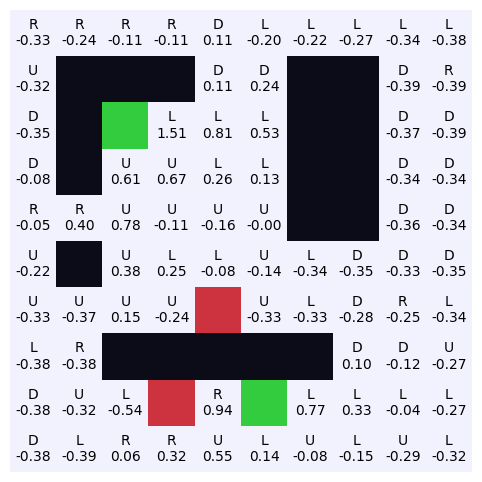
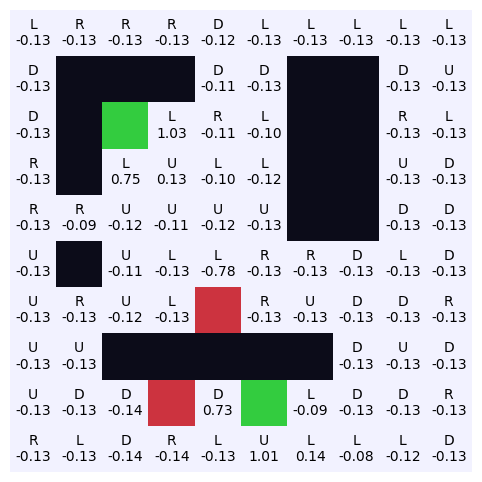
Validation

diff --git a/Assignment04/src/value_iter.py b/Assignment04/src/value_iter.py
@@ -5,7 +5,6 @@ import matplotlib.pyplot as plt
 import numpy as np
 
 class ValueIter():
-    gamma = 0.75
     delta = 1e-10
 
     def __init__(self, grid):
@@ -36,16 +35,16 @@ class ValueIter():
 
                 for i, action in enumerate(Action.as_list()):
                     new_state, reward = self.Q.get((state, action))
-                    new_vs[i] += self.grid.p_perform * (reward + self.gamma * self.V[new_state])
+                    new_vs[i] += self.grid.p_perform * (reward + self.grid.gamma * self.V[new_state])
 
                     new_state, reward = self.Q.get((state, action.next_action()))
-                    new_vs[i] += self.grid.p_sidestep / 2 * (reward + self.gamma * self.V[new_state])
+                    new_vs[i] += self.grid.p_sidestep / 2 * (reward + self.grid.gamma * self.V[new_state])
 
                     new_state, reward = self.Q.get((state, action.prev_action()))
-                    new_vs[i] += self.grid.p_sidestep / 2 * (reward + self.gamma * self.V[new_state])
+                    new_vs[i] += self.grid.p_sidestep / 2 * (reward + self.grid.gamma * self.V[new_state])
 
                     new_state, reward = self.Q.get((state, action.back_action()))
-                    new_vs[i] += self.grid.p_backstep * (reward + self.gamma * self.V[new_state])
+                    new_vs[i] += self.grid.p_backstep * (reward + self.grid.gamma * self.V[new_state])
                 
                 self.V[state] = max(new_vs)
                 max_delta = max(max_delta, np.abs(old_v - self.V[state]))
@@ -55,7 +54,7 @@ class ValueIter():
             new_vs = [0, 0, 0, 0]
             for i, action in enumerate(Action.as_list()):
                 new_state, reward = self.Q.get((state, action))
-                new_vs[i] = reward + self.gamma * self.V[new_state]
+                new_vs[i] = reward + self.grid.gamma * self.V[new_state]
             
             i = new_vs.index(max(new_vs))
             self.policy[state] = Action(i)

diff --git a/Assignment04/src/q_learning.py b/Assignment04/src/q_learning.py
@@ -9,7 +9,6 @@ import random
 class QLearning():
     epsilon = 0.1
     alpha = 0.75
-    gamma = 0.75
 
     def __init__(self, grid):
         self.grid = grid
@@ -37,7 +36,7 @@ class QLearning():
         max_q_val = max(new_q_vals.values())
 
         self.q_table[old_state][action] = ((1 - self.alpha) * old_q_val
-            + self.alpha * (reward + self.gamma * max_q_val))
+            + self.alpha * (reward + self.grid.gamma * max_q_val))
 
     def iterate(self, trials=500, max_steps=1000):
         for _trial in range(trials):

diff --git a/Assignment04/src/main.py b/Assignment04/src/main.py
@@ -41,9 +41,10 @@ if __name__ == "__main__":
         grid.gamma = gamma
         validate_algs(grid, f"gamma-{gamma}")
 
-    for no_reward in [0.0, -0.01, -0.1]:
+    for no_reward in [0.0, -0.1, -0.3]:
         grid = Grid.from_string(large)
         grid.no_reward = no_reward
+        grid.gamma = 0.25
         validate_algs(grid, f"noreward-{abs(no_reward)}")
     
     for ps in [[0.8, 0.15, 0.05], [0.5, 0.35, 0.15]]:

diff --git a/Assignment04/src/grid.py b/Assignment04/src/grid.py
@@ -6,6 +6,8 @@ class Grid():
     p_perform = 0.7
     p_sidestep = 0.2
     p_backstep = 0.1
+    
+    gamma = 0.75
 
     pos_reward = 1.0
     neg_reward = -1.0
